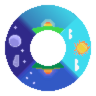
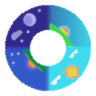
el reloj

diff --git a/core/src/com/mygdx/hud/HUD.java b/core/src/com/mygdx/hud/HUD.java
@@ -205,7 +205,6 @@ public class HUD implements HeadUpDisplay, Ocultable{
 		tiempo_Tex = new Texture(Recursos.DIBUJO_RELOJ);
 		tiempo_Img = new Image(tiempo_Tex);
 	    tiempo_Img.setOrigin(tiempo_Img.getWidth() / 2f, tiempo_Img.getHeight() / 2f);
-	    tiempo_Img.setRotation(135);
 		reloj = new Image(reloj_Tex);
 	}
 
@@ -368,26 +367,39 @@ public class HUD implements HeadUpDisplay, Ocultable{
 	    
 	    if(minutoDelDia == 1440) minutoDelDia = 0;
 	    
+	    
+	    if(minutoDelDia >= 0 && minutoDelDia < 240) {//De 0000Hs a 0400Hs (de 12AM a 4AM)
+	        // No restamos nada porque ya es desde el inicio del día.
+	        float angulo = minutoDelDia * 11.25f/60;
+	        tiempo_Img.setRotation(angulo + 315);
+	    }
+	    
 	    if(minutoDelDia >= 240 && minutoDelDia < 480) {//De 0400Hs a 0800Hs
-	    	float angulo = minutoDelDia * 22.5f/60;
+	    	minutoDelDia -= 240;//El juego empieza a las 0600Hs => 360mins
+	    	float angulo = minutoDelDia * (22.5f/60);
+
 	    	tiempo_Img.setRotation(angulo);
 	    }
 	    
 	    if(minutoDelDia >= 480 && minutoDelDia < 960) {//De 0800Hs a 1600Hs
+	    	minutoDelDia -= 480;
 	    	float angulo = minutoDelDia * 11.25f/60;
-	    	tiempo_Img.setRotation(angulo);
+	 
+	    	tiempo_Img.setRotation(angulo+90);
 	    }
 	    
 	    if(minutoDelDia >= 960 && minutoDelDia < 1200) {//De 1600Hs a 2000Hs 
+	    	minutoDelDia -= 960;
 	    	float angulo = minutoDelDia * 22.5f/60;
-	    	tiempo_Img.setRotation(angulo);
+	    	tiempo_Img.setRotation(angulo+180);
 	    }
 	    
-	    if(minutoDelDia >= 1200 && minutoDelDia < 240) {//De 2000Hs a 0400Hs
-	    	float minutosTranscurridos = (MundoConfig.horaDelMundo - 20)*60 + MundoConfig.minutoDelMundo;  // Horas desde las 4 AM en minutos
-	    	float angulo = minutosTranscurridos * 11.25f/60;
-	    	tiempo_Img.setRotation(angulo);
+	    if(minutoDelDia >= 1200 && minutoDelDia < 1440) {//De 2000Hs a 0400Hs
+	    	minutoDelDia -= 1200;
+	    	float angulo = minutoDelDia * 11.25f/60;
+	    	tiempo_Img.setRotation(angulo+270);
 	    }
+
 	}
 
 	    

diff --git a/core/src/com/mygdx/utiles/Iluminacion.java b/core/src/com/mygdx/utiles/Iluminacion.java
@@ -18,7 +18,7 @@ public class Iluminacion {
     private ColorLuz colorLuz;
     
     private float valorLuzAmbiental, topeLuzAmbiental;
-    private long minutoDelMundo = 1, horaDelMundo = 6; // Inicia a las 6:00 AM en el mundo virtual
+    private long minutoDelMundo = 1, horaDelMundo = 4; // Inicia a las 6:00 AM en el mundo virtual
     private int diaDelMundo = 3;
     private long ultimoTiempoActualizacion = 0; // Control para actualizar el tiempo correctamente
     

diff --git a/Log.md b/Log.md
@@ -345,3 +345,7 @@ Segunda vez que escribo esto, habia avanzado un monton pero me equivoque con alg
     - Agrega clase Tiempo. Se usa para medir el tiempo de sesion y el tiempo dentro del juego (gameplay).
     - Aprovecha clase Tiempo para corregir el sistema de dias, horas y minutos introducido hace un monton. ¡Ahora el tiempo dentro del juego funciona bien!
     - Modificaciones en el reloj del hud (aun no anda)
+
+# 20 SEP
+    - ¡El reloj funciona! (eso es basicamente todo lo de hoy (esta mier me llevo horas))
+    
